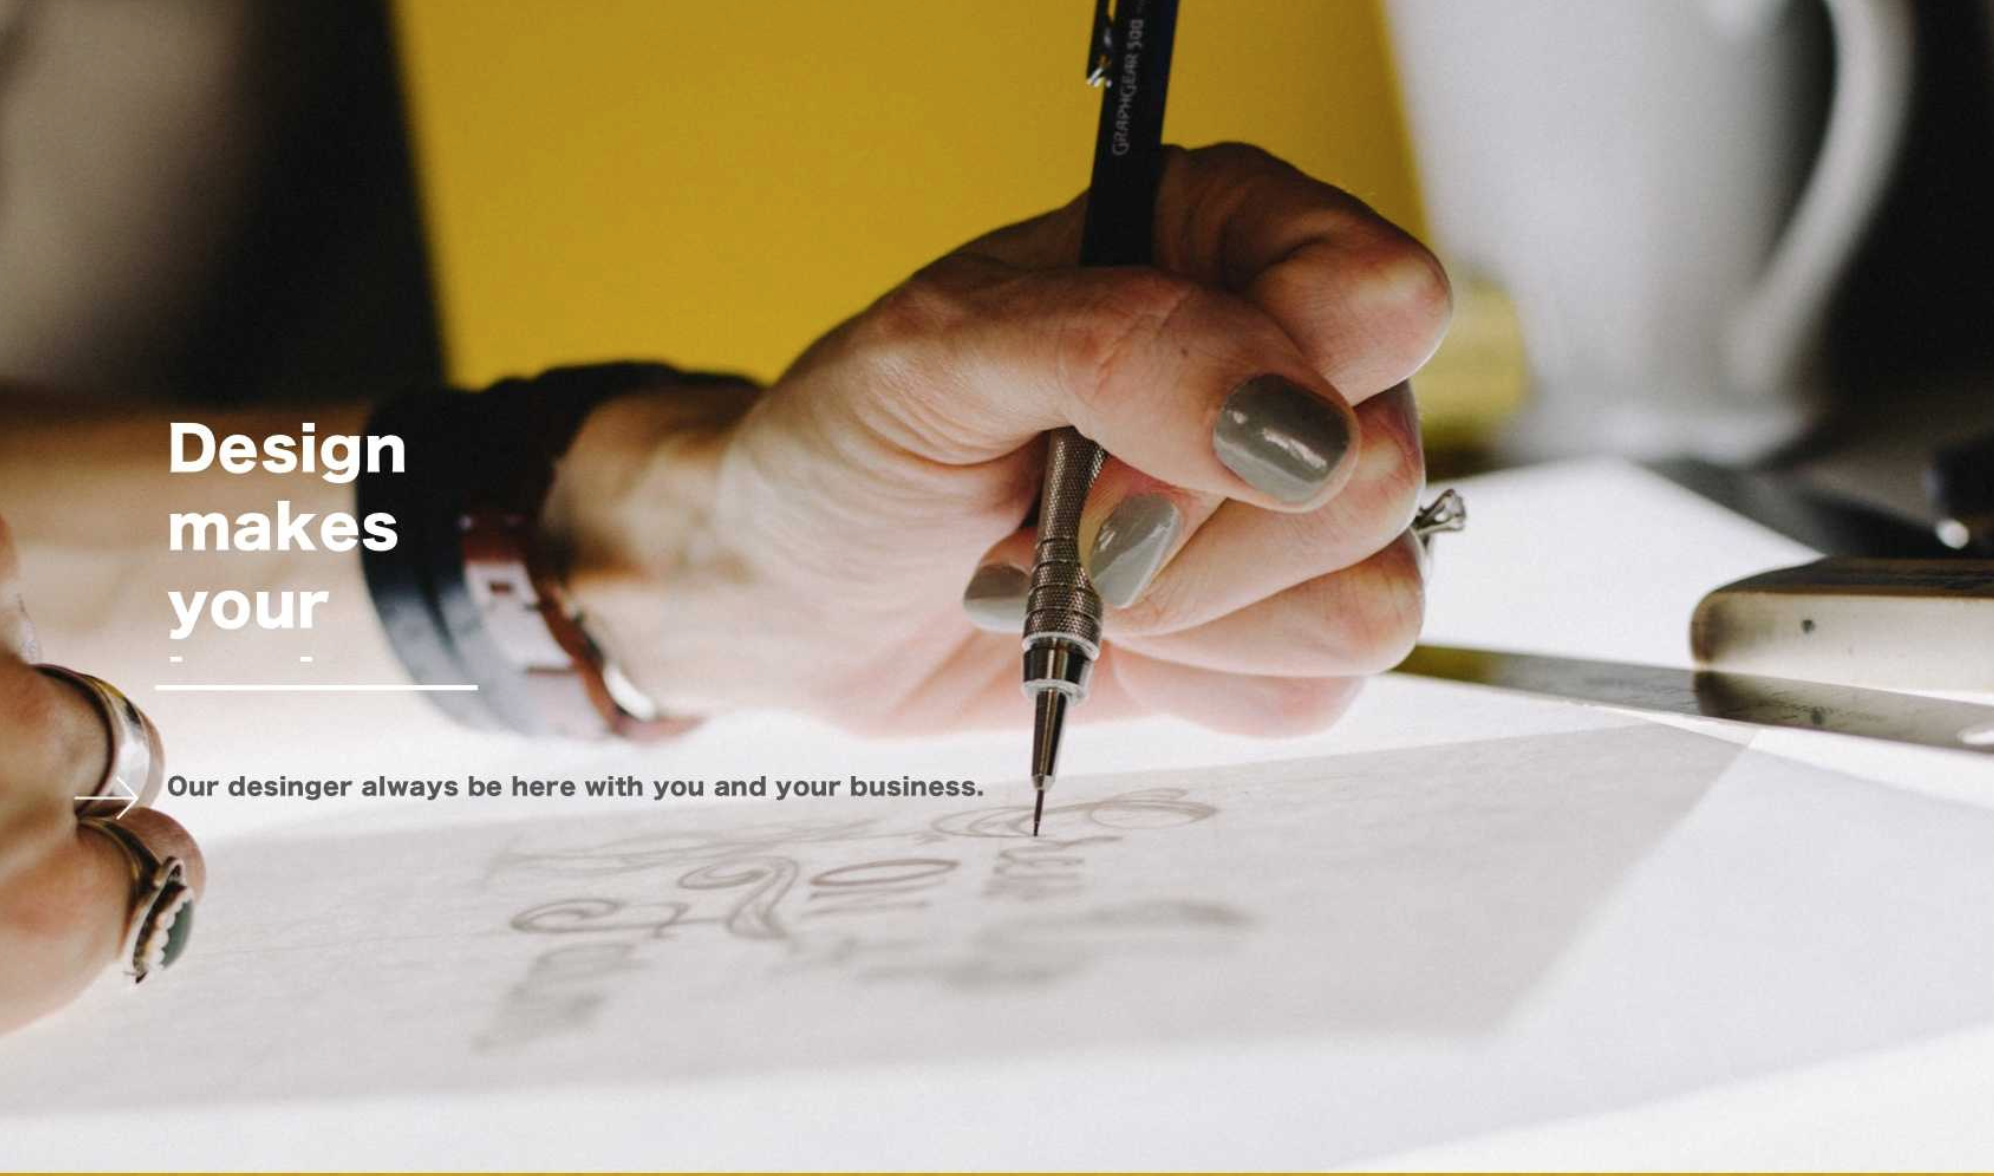
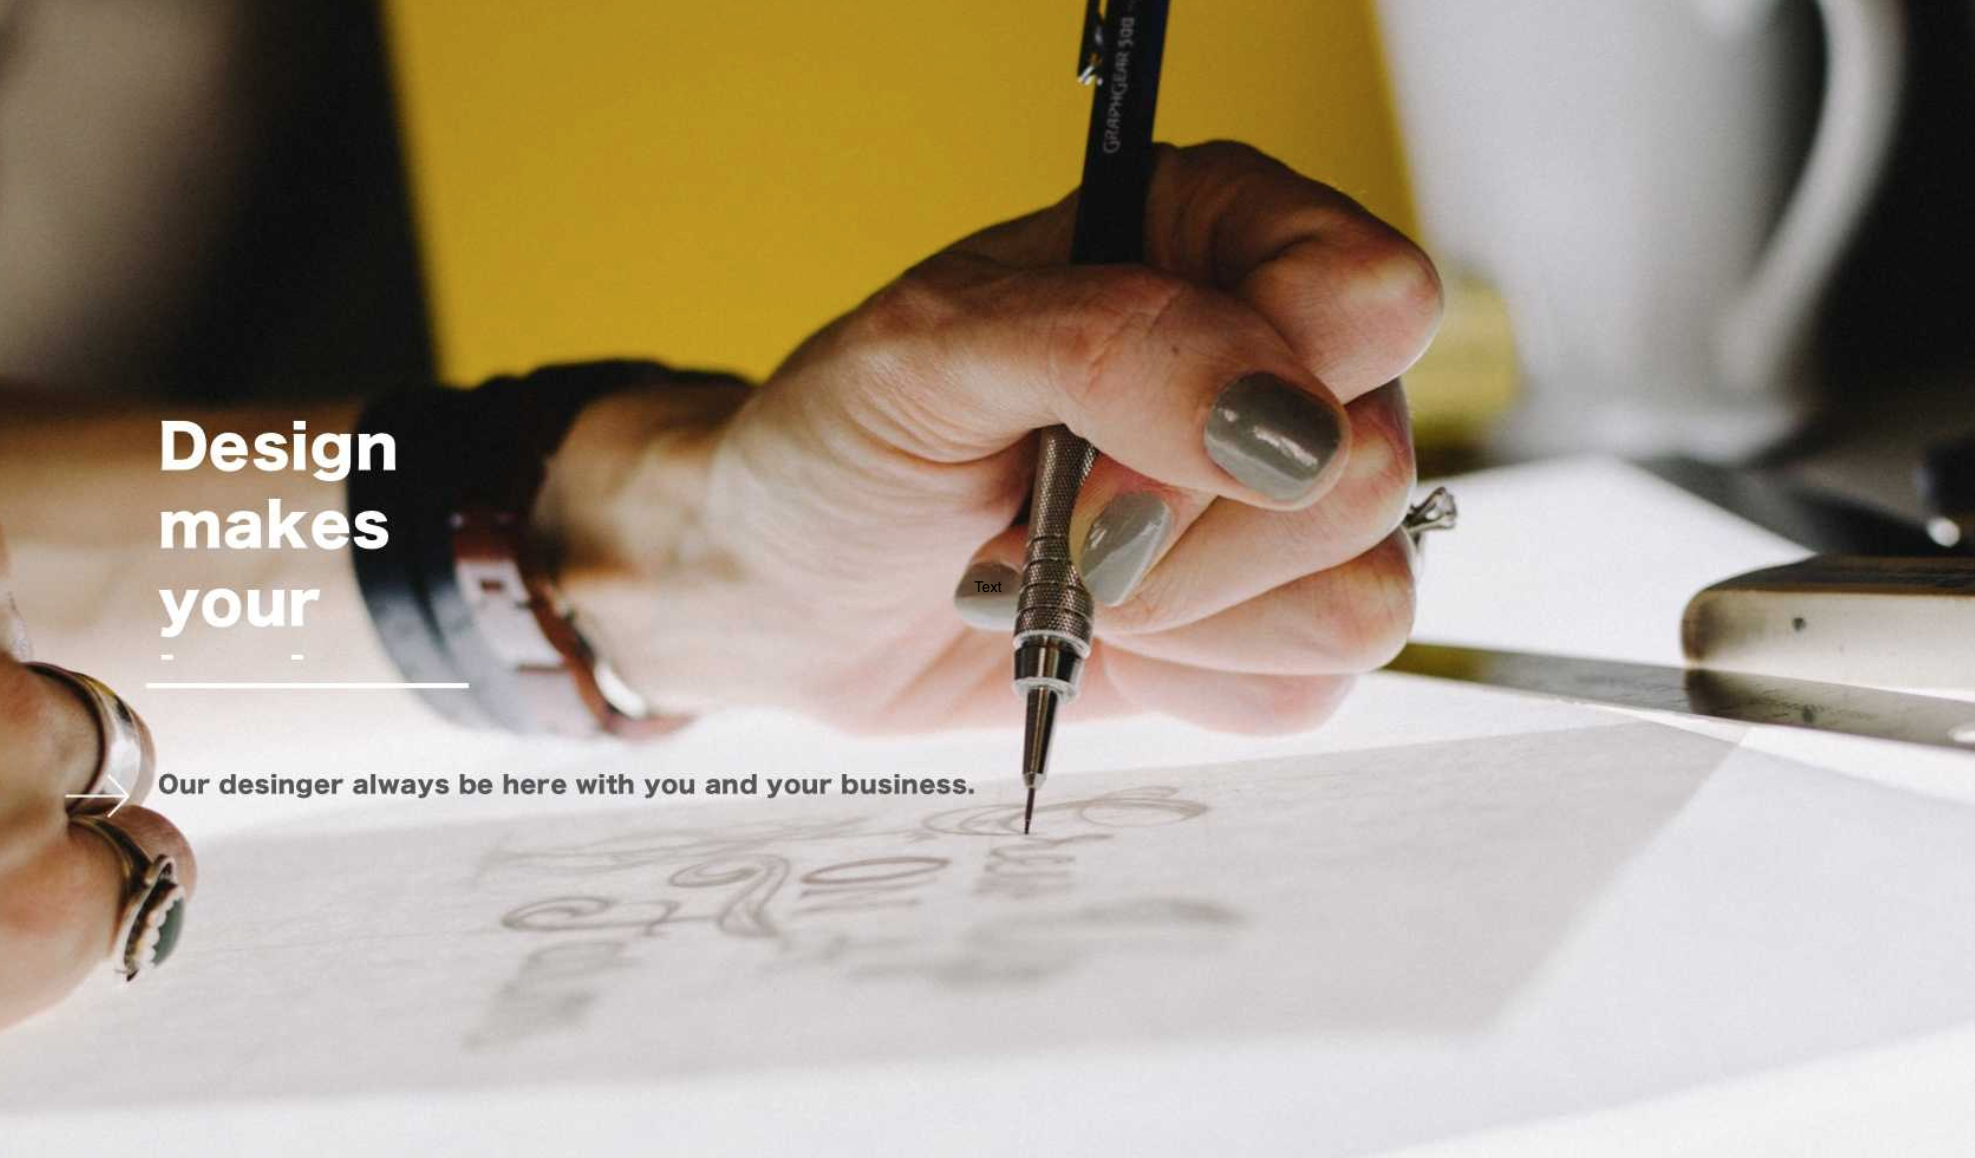
update route

diff --git a/src/Components/FirstBlock/Index.js b/src/Components/FirstBlock/Index.js
@@ -1,20 +1,34 @@
-import React from 'react';
-import ReactDOM from 'react-dom';
+import React from "react";
+import Sticky from "../Sticky/Index";
 
-import {FirstDiv, Header, Paragraph, Content} from './Styles';
+import { FirstDiv, Header, Paragraph, Content } from "./Styles";
 
-class FirstBlock extends React.Component{
-	render(){
-		return(
-		<FirstDiv>
-			<Header>Branding Design</Header>
-			<Paragraph>
-				<Content>
-				Lorem Ipsum is simply dummy text of the printing and typesetting industry. Lorem Ipsum has been the industry's standard dummy text ever since the 1500s, when an unknown printer took a galley of type and scrambled it to make a type specimen book. It has survived not only five centuries, but also the leap into electronic typesetting, remaining essentially unchanged.				Lorem Ipsum is simply dummy text of the printing and typesetting industry. Lorem Ipsum has been the industry's standard dummy text ever since the 1500s, when an unknown printer took a galley of type and scrambled it to make a type specimen book. It has survived not only five centuries, but also the leap into electronic typesetting, remaining essentially unchanged.
-				</Content>
-			</Paragraph>
-		</FirstDiv>
-		);
-	}
+class FirstBlock extends React.Component {
+  render() {
+    return (
+      <FirstDiv>
+        <div>
+          <Header>Branding Design</Header>
+          <Paragraph>
+            <Content>
+              Lorem Ipsum is simply dummy text of the printing and typesetting
+              industry. Lorem Ipsum has been the industry's standard dummy text
+              ever since the 1500s, when an unknown printer took a galley of
+              type and scrambled it to make a type specimen book. It has
+              survived not only five centuries, but also the leap into
+              electronic typesetting, remaining essentially unchanged. Lorem
+              Ipsum is simply dummy text of the printing and typesetting
+              industry. Lorem Ipsum has been the industry's standard dummy text
+              ever since the 1500s, when an unknown printer took a galley of
+              type and scrambled it to make a type specimen book. It has
+              survived not only five centuries, but also the leap into
+              electronic typesetting, remaining essentially unchanged.
+            </Content>
+          </Paragraph>
+        </div>
+        <Sticky />
+      </FirstDiv>
+    );
+  }
 }
 export default FirstBlock;

diff --git a/src/Components/Sticky/Styles.js b/src/Components/Sticky/Styles.js
@@ -2,30 +2,51 @@ import styled from "styled-components";
 
 export const SticklyWrapper = styled.div`
   height: 200px;
+  width: 100px;
   position: -webkit-sticky;
   position: sticky;
   top: 30px;
-  font-size: 20px;
+  padding-right: 70px;
+  margin-top: 40px;
 `;
 
 export const GreenBG = styled.div`
   width: 50px;
   height: 206px;
   background-color: rgb(206, 255, 121);
-  margin: auto;
   z-index: -1;
   position: relative;
 `;
 
 export const CurrentTab = styled.p`
-  font-size: 20px;
+  font-size: 18px;
   position: absolute;
+  width: 200px;
+  left: -40px;
   top: 80px;
   margin: 0;
 `;
 
+export const Tab = styled.p`
+  writing-mode: vertical-rl;
+  text-orientation: mixed;
+  text-align: center;
+  font-weight: bold;
+  font-size: 18px;
+  margin-top: 10px;
+  height: 170px;
+`;
 export const ProjectImg = styled.img`
   font-size: 22px;
   width: 100%;
   height: 292px;
+`;
+
+export const Dot = styled.span`
+  height: 5px;
+  width: 5px;
+  margin-left: 25px;
+  background-color: black;
+  border-radius: 50%;
+  display: inline-block;
 `;

diff --git a/src/Components/Projects.js b/src/Components/Projects.js
@@ -1,27 +1,25 @@
-import React from 'react';
-import ReactDOM from 'react-dom';
+import React from "react";
 
-import YellowBar from './YellowBar/Index';
-import FirstBlock from './FirstBlock/Index';
+import YellowBar from "./YellowBar/Index";
+import FirstBlock from "./FirstBlock/Index";
 import TrioShotto from "./TrioShotto/Index";
 import GrayBox from "./Ecommerce-gray/Index";
-import Sticky from "./Sticky/Index";
 import BrandPackageBlock from "./BrandPackageBlock/Index";
 import ProjectPageImg from "./ProjectPageImg/Index";
 
-class Projects extends React.Component{
-	render(){
-		return (
-			<div>
-				<YellowBar />
-				<FirstBlock />
-				<TrioShotto />
-				<GrayBox />
-				<BrandPackageBlock />
-				<ProjectPageImg />
-			</div>
-		);
-	}
+class Projects extends React.Component {
+  render() {
+    return (
+      <div>
+        <YellowBar />
+        <FirstBlock />
+        <TrioShotto />
+        <GrayBox />
+        <BrandPackageBlock />
+        <ProjectPageImg />
+      </div>
+    );
+  }
 }
 
 export default Projects;

diff --git a/src/Components/FirstBlock/Styles.js b/src/Components/FirstBlock/Styles.js
@@ -1,25 +1,26 @@
 import styled from "styled-components";
 
-export const FirstDiv=styled.div`
+export const FirstDiv = styled.div`
+  display: flex;
 `;
 
-export const Header=styled.p`
-	font-size: 32px;
-	font-weight: bold;
-	position: relative;
-	left: 7%;
-	margin-top: 130px;
-	width: 54%;
+export const Header = styled.p`
+  font-size: 32px;
+  font-weight: bold;
+  position: relative;
+  left: 7%;
+  margin-top: 130px;
+  width: 54%;
 `;
 
-export const Paragraph=styled.div`
-	width: 54%;
-	height: 348px;
-	margin-top: 50px;
-	position: relative;
-	left: 7%;
+export const Paragraph = styled.div`
+  width: 54%;
+  height: 348px;
+  margin-top: 50px;
+  position: relative;
+  left: 7%;
 `;
 
-export const Content=styled.p`
-	font-size: 20px;
+export const Content = styled.p`
+  font-size: 20px;
 `;

diff --git a/src/App.js b/src/App.js
@@ -2,7 +2,7 @@ import React, { Component } from "react";
 import "./App.css";
 import Home from "./Components/Home";
 import Ecommerce from "./Components/Ecommerce";
-import Projects from "./Components/Projects"
+import Projects from "./Components/Projects";
 
 import Navbar from "./Components/Navbar/Index";
 import Footer from "./Components/Footer/Index";
@@ -14,7 +14,7 @@ class App extends Component {
       <BrowserRouter>
         <div>
           <Navbar />
-          <Route path="/contact" component={Home} />
+          <Route exact path="/" component={Home} />
           <Route path="/about" component={Ecommerce} />
           <Route path="/projects" component={Projects} />
           <Footer />

diff --git a/src/Components/Sticky/Index.js b/src/Components/Sticky/Index.js
@@ -1,12 +1,18 @@
 import React from "react";
 
-import { SticklyWrapper, GreenBG, CurrentTab } from "./Styles";
+import { SticklyWrapper, GreenBG, CurrentTab, Tab, Dot } from "./Styles";
 
 const Sticky = () => {
   return (
     <SticklyWrapper>
       <GreenBG />
-      <CurrentTab>E-commence website</CurrentTab>
+      <CurrentTab>Branding Design</CurrentTab>
+      <Dot />
+      <Tab> Design process </Tab>
+      <Dot />
+      <Tab> Branding package </Tab>
+      <Dot />
+      <Tab> Graphic design </Tab>
     </SticklyWrapper>
   );
 };

diff --git a/src/index.js b/src/index.js
@@ -4,7 +4,7 @@ import './index.css';
 import App from './App';
 import * as serviceWorker from './serviceWorker';
 
-ReactDOM.render(<App />, document.getElementById('root'));
+ReactDOM.render((<Router basename={process.env.PUBLIC_URL}><App /></Router>, document.getElementById('root'));
 
 // If you want your app to work offline and load faster, you can change
 // unregister() to register() below. Note this comes with some pitfalls.

diff --git a/src/Components/Ecommerce.js b/src/Components/Ecommerce.js
@@ -92,7 +92,7 @@ const Ecommerce = () => {
           <Eproject imgSource={yellowBox} />
           <Eproject imgSource={greenBox} />
         </div>
-        <Sticky />
+        {/* <Sticky /> */}
       </div>
       <EcommerceTrio />
       <GrayBox />
